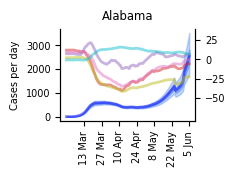
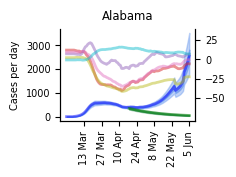
plotting both continued lockdown and opening

Changed region(s): [[0.5339, 0.5932, 0.8305, 0.678]]

diff --git a/simulations/mobility/dev/US/visualize_us.py b/simulations/mobility/dev/US/visualize_us.py
@@ -24,12 +24,13 @@ parser = argparse.ArgumentParser(description = '''Visuaize results from model us
 
 parser.add_argument('--indir', nargs=1, type= str, default=sys.stdin, help = 'Path to directory with results.')
 parser.add_argument('--complete_df', nargs=1, type= str, default=sys.stdin, help = 'Dataframe with all state data used for modelling.')
+parser.add_argument('--lockdown_df', nargs=1, type= str, default=sys.stdin, help = 'Dataframe with continued lockdown results.')
 parser.add_argument('--short_dates', nargs=1, type= str, default=sys.stdin, help = 'Short date format for plotting (csv).')
 parser.add_argument('--outdir', nargs=1, type= str, default=sys.stdin, help = 'Path to outdir.')
 
 
 
-def visualize_results(complete_df, indir, short_dates, outdir):
+def visualize_results(complete_df, lockdown_df, indir, short_dates, outdir):
     '''Visualize results
     '''
 
@@ -38,9 +39,6 @@ def visualize_results(complete_df, indir, short_dates, outdir):
     #Monte Carlo standard error (se_mean), the effective sample size (n_eff),
     #and the R-hat statistic (Rhat).
     summary = pd.read_csv(indir+'summary.csv')
-    #cases = np.load(outdir+'prediction.npy', allow_pickle=True)
-    #deaths = np.load(outdir+'E_deaths.npy', allow_pickle=True)
-    #Rt =  np.load(outdir+'Rt.npy', allow_pickle=True)
     alphas = np.load(indir+'alpha.npy', allow_pickle=True)
     phi = np.load(indir+'phi.npy', allow_pickle=True)
     #Plot rhat
@@ -91,7 +89,8 @@ def visualize_results(complete_df, indir, short_dates, outdir):
         state_data = complete_df[complete_df['region']==state]
         observed_deaths = state_data['deaths']
         days = len(state_data)#Number of days for state i
-
+        #Lockdown data
+        state_lockdown = lockdown_df[lockdown_df['state']==state]
         #Extract modeling results
         means = {'prediction':np.zeros((days)),'E_deaths':np.zeros((days)), 'Rt':np.zeros((days))}
         lower_bound = {'prediction':np.zeros((days)),'E_deaths':np.zeros((days)), 'Rt':np.zeros((days))} #Estimated 2.5 %
@@ -110,17 +109,17 @@ def visualize_results(complete_df, indir, short_dates, outdir):
 
         #Plot cases
         #Per day
-        plot_shade_ci(days, state_data, '', means['prediction'],lower_bound['prediction'],
+        plot_shade_ci(days, state_data,state_lockdown, 'cases', means['prediction'],lower_bound['prediction'],
         higher_bound['prediction'], lower_bound25['prediction'], higher_bound75['prediction'], 'Cases per day',
         outdir+'plots/'+state+'_cases.png', short_dates)
 
         #Plot Deaths
         #Per day
-        plot_shade_ci(days,state_data,'deaths',means['E_deaths'], lower_bound['E_deaths'], higher_bound['E_deaths'],
+        plot_shade_ci(days,state_data,state_lockdown,'deaths',means['E_deaths'], lower_bound['E_deaths'], higher_bound['E_deaths'],
         lower_bound25['E_deaths'], higher_bound75['E_deaths'], 'Deaths per day',
         outdir+'plots/'+state+'_deaths.png', short_dates)
         #Plot R
-        plot_shade_ci(days,state_data,'',means['Rt'], lower_bound['Rt'], higher_bound['Rt'], lower_bound25['Rt'],
+        plot_shade_ci(days,state_data,state_lockdown,'Rt',means['Rt'], lower_bound['Rt'], higher_bound['Rt'], lower_bound25['Rt'],
         higher_bound75['Rt'],'Rt',outdir+'plots/'+state+'_Rt.png', short_dates)
 
     #     #Print for montage
@@ -145,7 +144,7 @@ def mcmc_parcoord(cat_array, xtick_labels, outdir):
     fig.savefig(outdir+'plots/mcmc_parcoord.png', format = 'png')
     plt.close()
 
-def plot_shade_ci(days, state_data, param, means, lower_bound, higher_bound, lower_bound25, higher_bound75, ylabel, outname, short_dates):
+def plot_shade_ci(days, state_data, state_lockdown, param, means, lower_bound, higher_bound, lower_bound25, higher_bound75, ylabel, outname, short_dates):
     '''Plot with shaded 95 % CI (plots both 1 and 2 std, where 2 = 95 % interval)
     '''
     dates = state_data['date']
@@ -156,13 +155,20 @@ def plot_shade_ci(days, state_data, param, means, lower_bound, higher_bound, low
     fig, ax1 = plt.subplots(figsize=(6/2.54, 4.5/2.54))
 
     #Plot observed dates
-    if param:
+    if param=='deaths':
         ax1.bar(x,np.round(state_data[param],0), alpha = 0.5)
     #Plot simulation
     ax1.plot(x,means, alpha=0.5, linewidth = 2.0, color = 'b')
     ax1.fill_between(x, lower_bound, higher_bound, color='cornflowerblue', alpha=0.4)
     ax1.fill_between(x, lower_bound25, higher_bound75, color='cornflowerblue', alpha=0.6)
 
+    #Plot continued lockdown
+    exi = int(state_lockdown['extreme_index'].values[0])
+    ax1.plot(x[exi:],state_lockdown.loc[exi:,'mean_'+param], alpha=0.5, linewidth = 2.0, color = 'g')
+    ax1.fill_between(x[exi:],state_lockdown.loc[exi:,'lower_'+param], state_lockdown.loc[exi:,'higher_'+param], color='seagreen', alpha=0.4)
+    ax1.fill_between(x[exi:],state_lockdown.loc[exi:,'lower25_'+param], state_lockdown.loc[exi:,'higher75_'+param], color='seagreen', alpha=0.6)
+
+    #Mobility
     mob_keys = {'retail_and_recreation_percent_change_from_baseline':'tab:red',
                 'grocery_and_pharmacy_percent_change_from_baseline':'tab:purple',
                 'transit_stations_percent_change_from_baseline':'tab:pink',
@@ -205,6 +211,7 @@ matplotlib.rcParams.update({'font.size': 7})
 args = parser.parse_args()
 indir = args.indir[0]
 complete_df = pd.read_csv(args.complete_df[0])
+lockdown_df = pd.read_csv(args.lockdown_df[0])
 short_dates = pd.read_csv(args.short_dates[0])
 
 #Make sure the np dates are in the correct format
@@ -212,4 +219,4 @@ short_dates['np_date'] = pd.to_datetime(short_dates['np_date'], format='%Y/%m/%d
 outdir = args.outdir[0]
 
 #Visualize
-visualize_results(complete_df, indir, short_dates, outdir)
+visualize_results(complete_df, lockdown_df, indir, short_dates, outdir)
